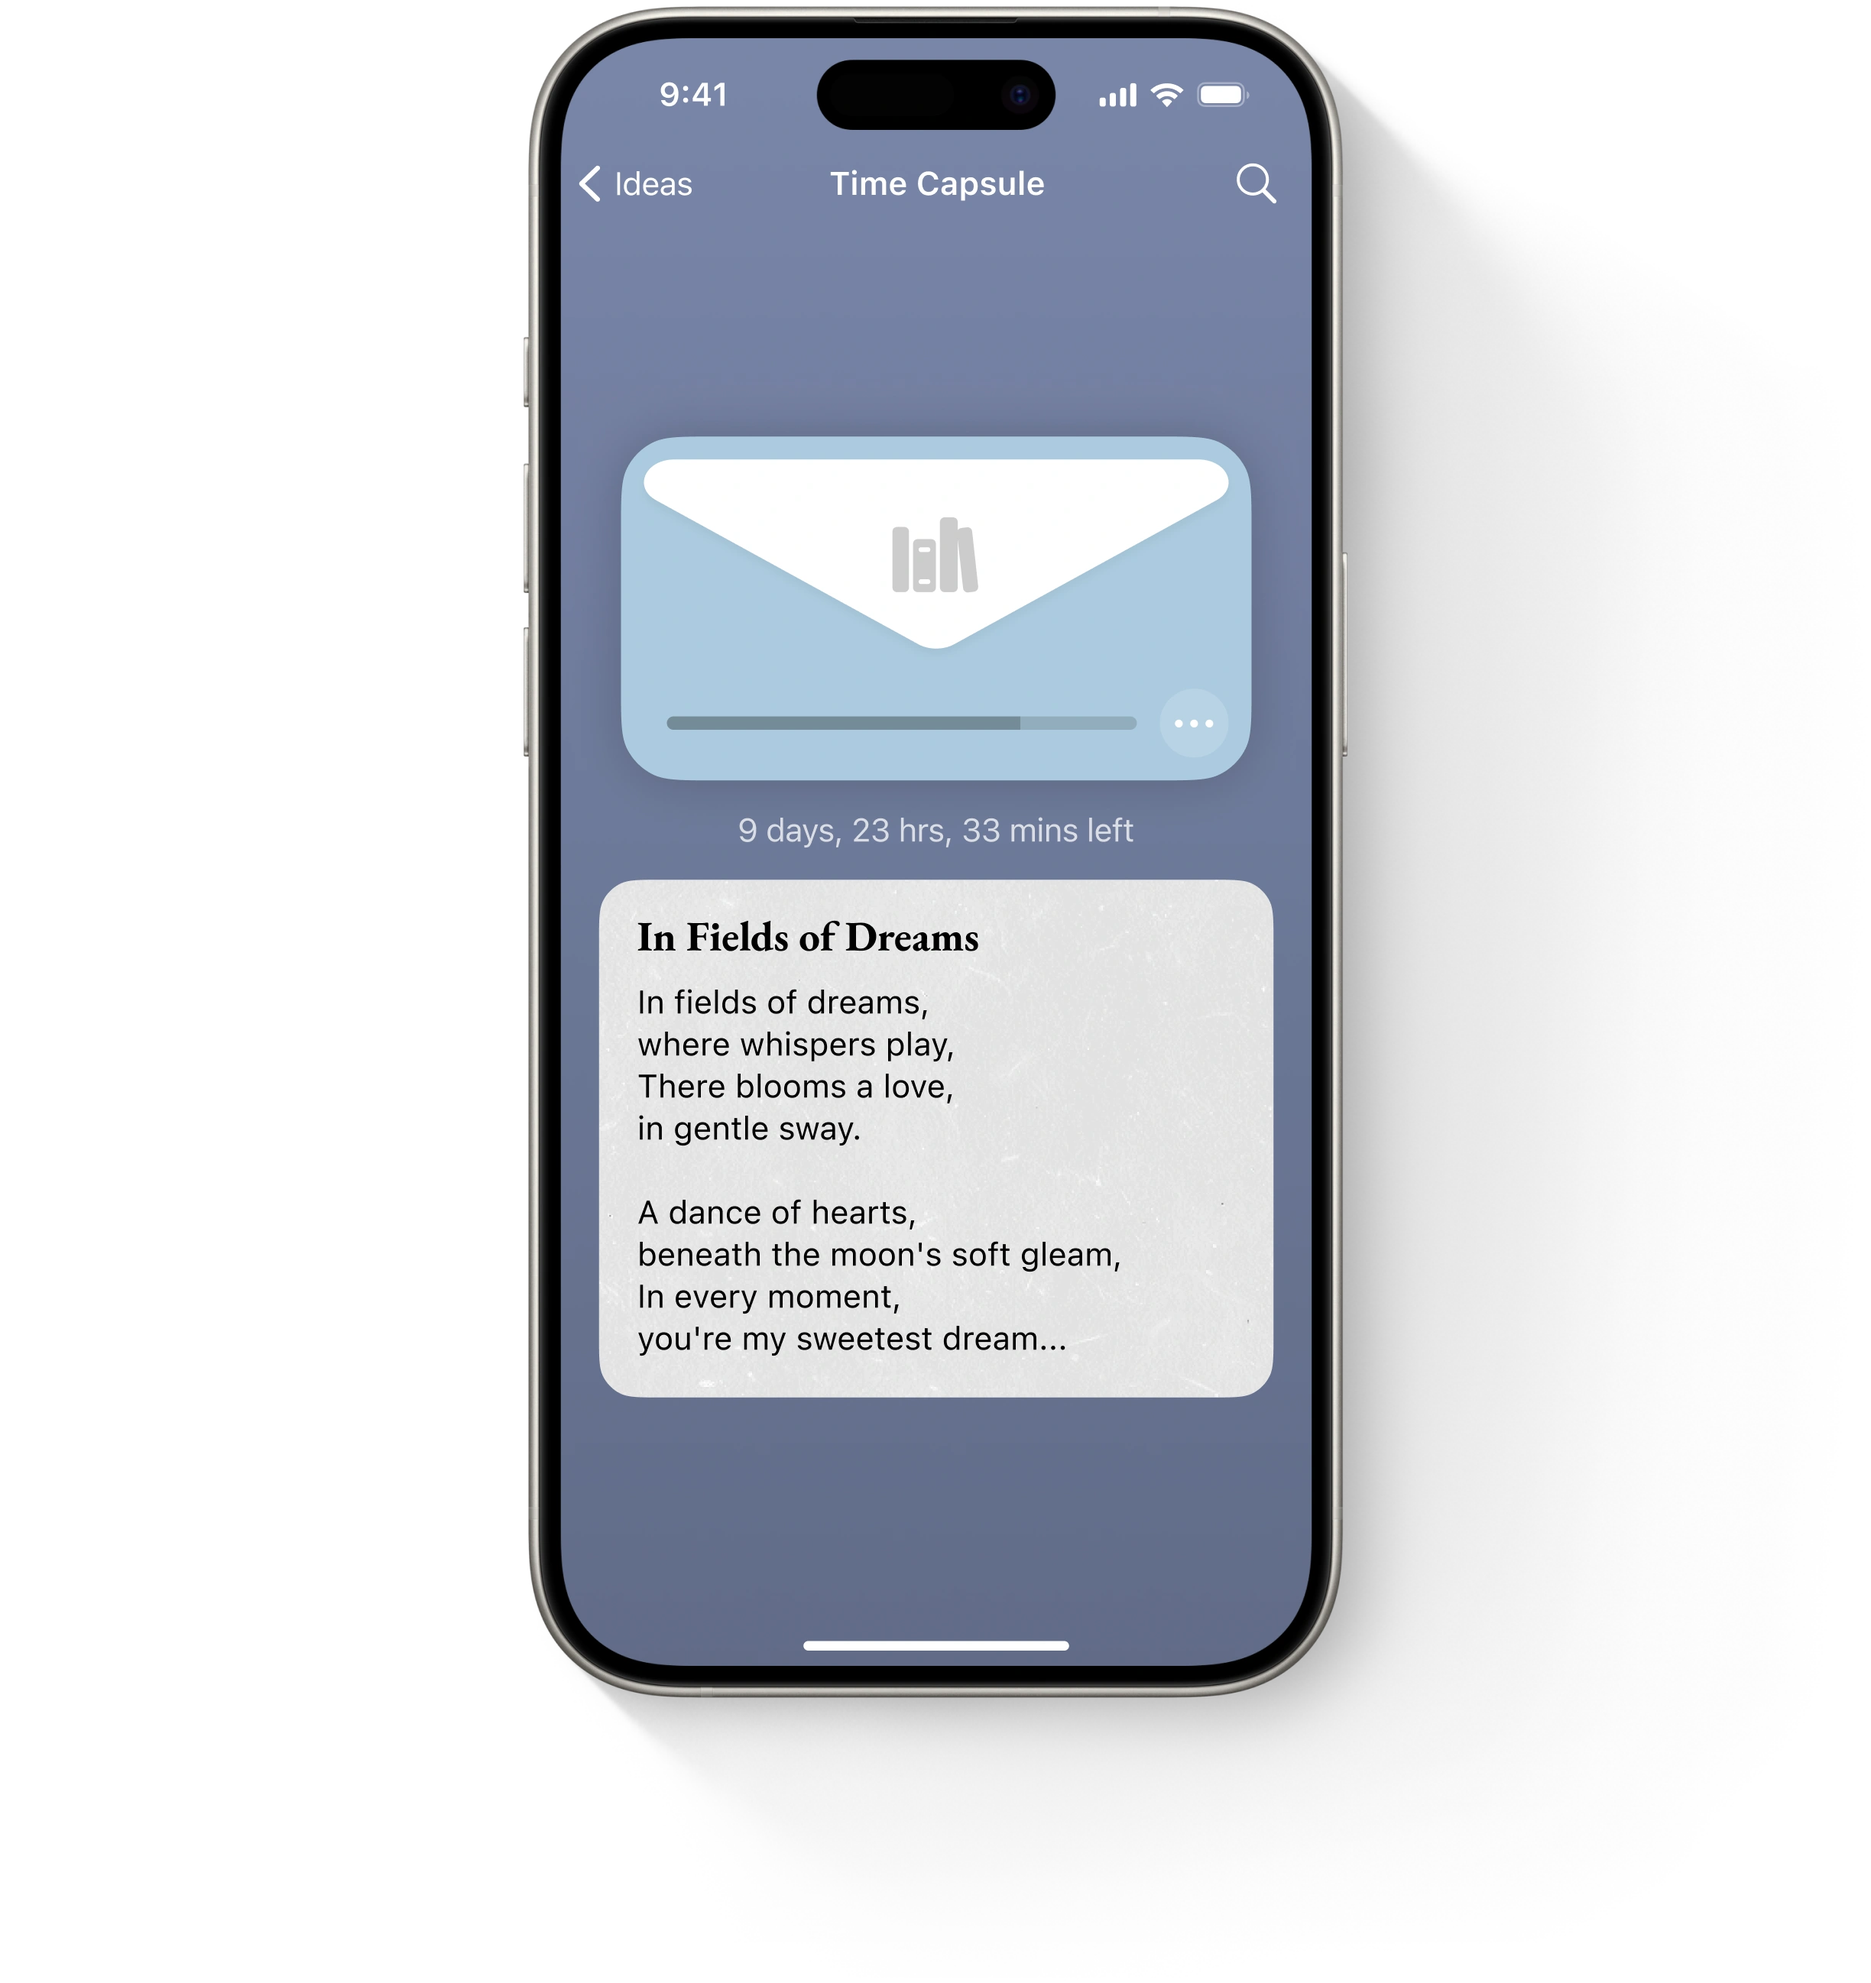
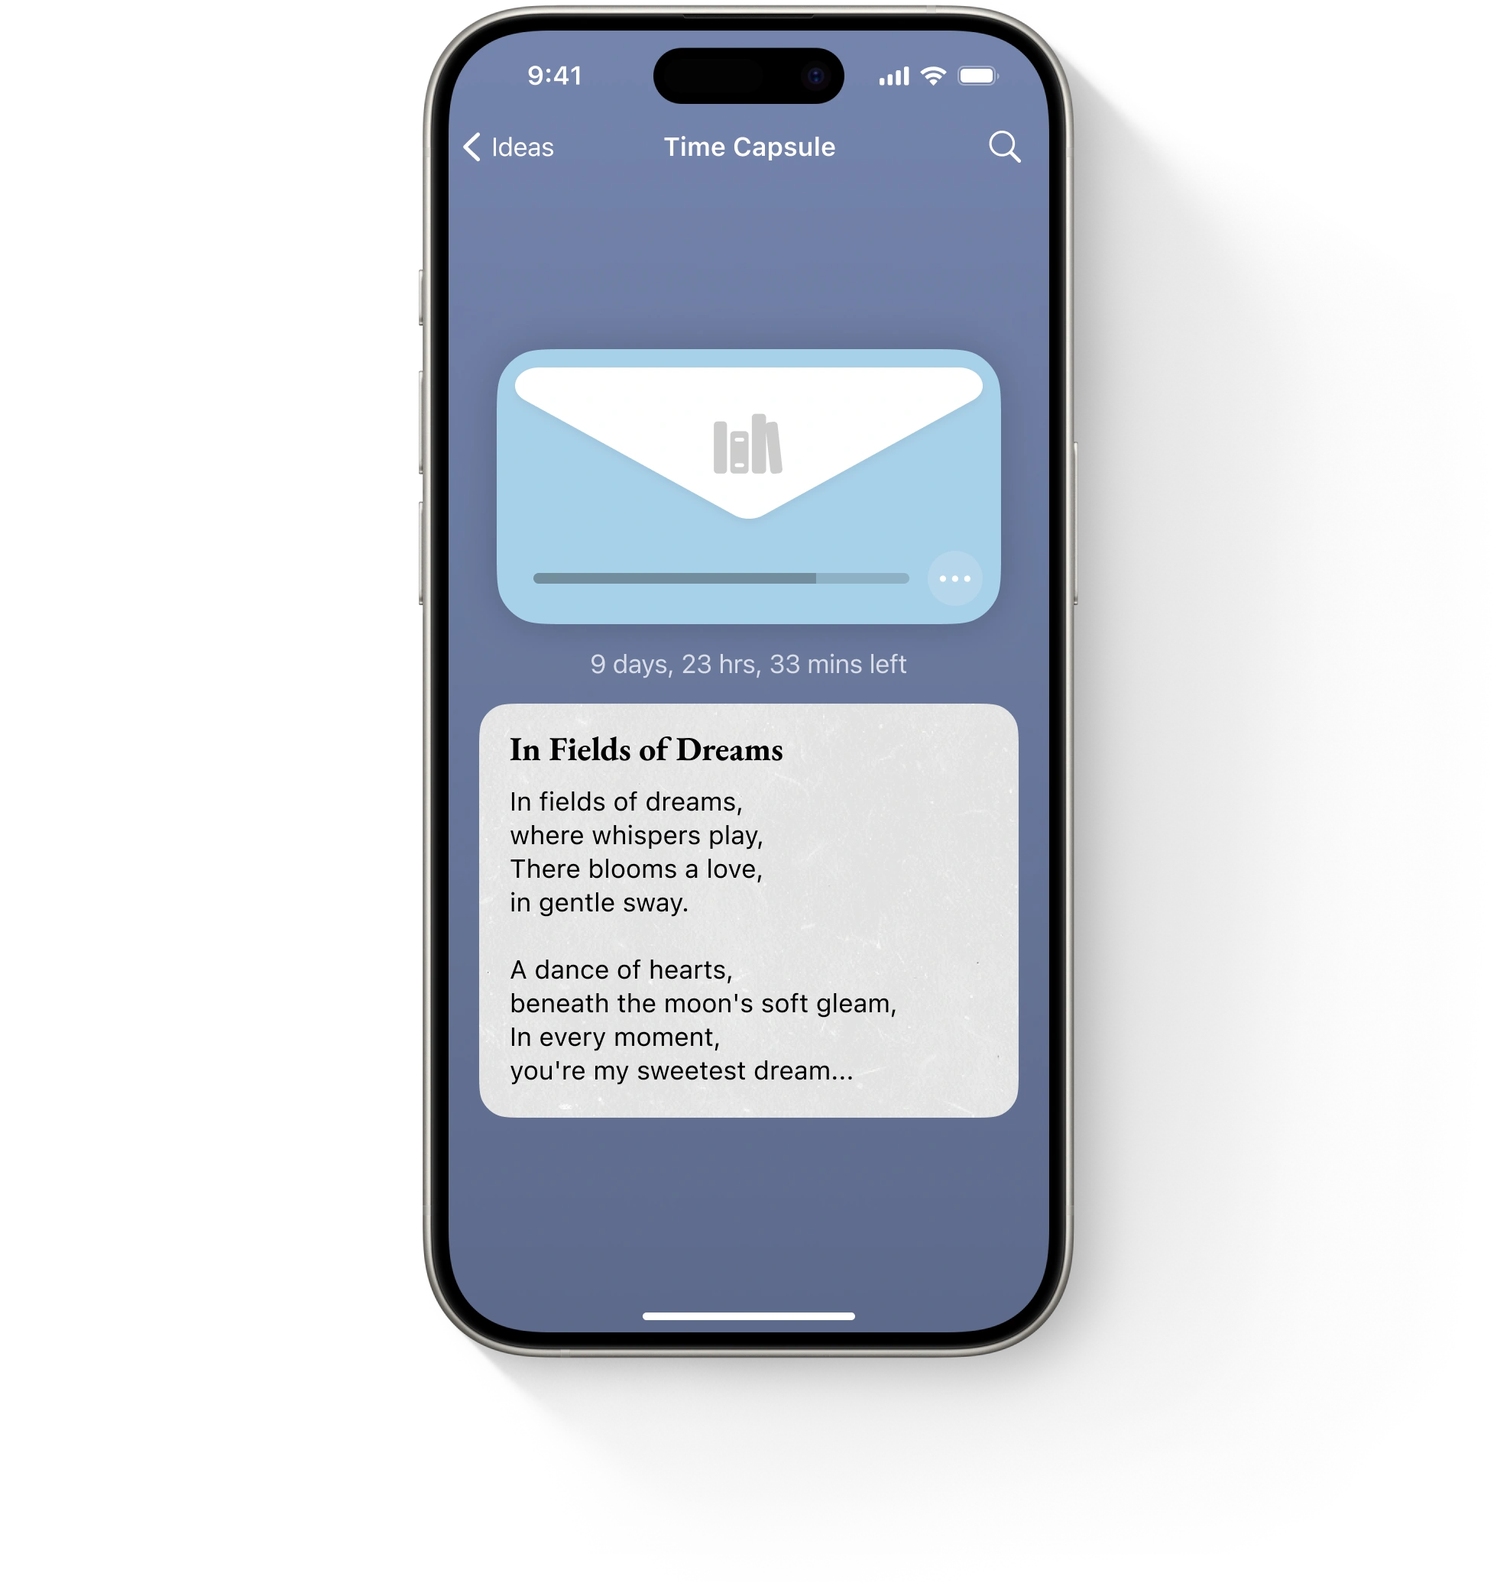
mobile

Changed region(s): [[0.3425, 0.5241, 0.4982, 0.5549], [0.4359, 0.6474, 0.4671, 0.6782]]

diff --git a/cases-style.css b/cases-style.css
@@ -49,7 +49,7 @@ nav {
     padding: 4px;
     gap: 4px;
     border-radius: 16px;
-    background-color: rgba(247, 247, 247, 0.75);
+    background-color: rgba(255, 255, 255, 0.75);
     backdrop-filter: saturate(180%) blur(20px);
     -webkit-backdrop-filter: saturate(180%) blur(20px);
     width: fit-content;
@@ -148,7 +148,7 @@ wordmark {
 
 .lead {
     gap: 15px;
-    padding-top: 0px;
+    padding-block: 0px;
 }
   
 .lead h1, .emphasis h1 {
@@ -333,13 +333,144 @@ holder {
 
 /* KEY IMAGES*/
 
-.iPhones-3 {
-    max-height: 1100px;
+.hold-five {
+    display: grid;
+    grid-template-columns: repeat(auto-fit, minmax(100px, 1fr));
+    column-gap: 20px;
+    width: 1600px;
+    animation: myAnimation 1s ease-in-out;
+    align-items:flex-start;
+    padding-top: 10px;
 }
 
-.hold-iPhones-3 {
-    max-height: 1010px;
+.hold-five .iPhone {
+    height: 670px;
 }
+
+.hold-five holder {
+    max-height: 570px;
+}
+
+.odd {
+    margin-top: 100px;
+    animation: straighten linear forwards;
+    animation-timeline: view();
+    animation-range: contain 0% cover 80%;
+}
+
+@media only screen and (max-width: 1130px) {
+    .hold-five {
+        width: 1200px;
+    }
+
+    .hold-five .iPhone {
+        height: 550px;
+    }
+    
+    .hold-five holder {
+        max-height: 450px;
+    }
+
+    .odd {
+        margin-top: 80px;
+    }
+}
+
+@media only screen and (max-width: 700px) {
+    .hold-five {
+        width: 900px;
+    }
+
+    .hold-five .iPhone {
+        height: 400px;
+    }
+    
+    .hold-five holder {
+        max-height: 350px;
+    }
+
+    .odd {
+        margin-top: 50px;
+    }
+}
+
+@keyframes straighten {
+    0% {
+        margin-top: 100px;
+    }
+    100% {
+        margin-top: 0px;
+    }
+}
+
+.move-left {
+    animation: moveLeft 1s ease-in-out;
+}
+
+.move-left-2 {
+    animation: moveLeft2 1s ease-in-out;
+}
+
+.move-right {
+    animation: moveRight 1s ease-in-out;
+}
+
+.move-right-2 {
+    animation: moveRight2 1s ease-in-out;
+}
+
+@keyframes moveLeft {
+    0% {
+      transform: translateX(40%);
+    }
+    100% {
+      transform: translateX(0%);
+    }
+}
+
+@keyframes moveLeft2 {
+    0% {
+      transform: translateX(80%);
+    }
+    100% {
+      transform: translateX(0%);
+    }
+}
+
+@keyframes moveRight {
+    0% {
+      transform: translateX(-40%);
+    }
+    100% {
+      transform: translateX(0%);
+    }
+}
+
+@keyframes moveRight2 {
+    0% {
+      transform: translateX(-80%);
+    }
+    100% {
+      transform: translateX(0%);
+    }
+}
+
+
+@keyframes myAnimation {
+    0% {
+      transform: scale(0.9) translateY(20%);
+    }
+    100% {
+      transform: scale(1) translateY(0%);
+    }
+}
+
+
+
+
+
+
+
 
 @media only screen and (max-width: 1370px) {
     .iPhones-3 {
@@ -460,7 +591,7 @@ paint {
 }
 
 .purple {
-    background: #7F8DB2;
+    background: #7A8BB6;
     fill: #A7D0E8;
 }
 
@@ -492,7 +623,7 @@ paint {
 
 @media only screen and (max-width: 700px) {
     color-options {
-        height: 600px;
+        height: 800px;
         width: 100vw;
         border-radius: 0px;
     }
@@ -927,28 +1058,6 @@ topic p {
 
     .hold-four holder {
         max-height: 670px;
-    }
-}
-
-
-
-/* SIX SIX SIX SIX SIX SIX */
-
-.hold-six {
-    max-height: 1850px;
-}
-
-.six {
-    max-height: 1923px;
-}
-
-@media only screen and (max-width: 1130px) {
-    .hold-six {
-        max-height: 1450px;
-    }
-    
-    .six {
-        max-height: 1485px;
     }
 }
 

diff --git a/shelf.html b/shelf.html
@@ -39,10 +39,24 @@
         <segment>
             <wordmark class="lead">
                 <h1>Shelf</h1>
-                <p>A new frontier of<br class="only-med">self-expression.</p>
+                <p>A new frontier of self-expression.</p>
             </wordmark>
-            <holder class="hold-iPhones-3">
-                <img class="iPhones-3" src="Im/s-key.webp">
+            <holder class="hold-five">
+                <holder class="move-right-2">
+                    <img class="iPhone" src="Im/s-key-1.webp">
+                </holder>
+                <holder class="odd move-right">
+                    <img class="iPhone" src="Im/s-key-2.webp">
+                </holder>
+                <holder>
+                    <img class="iPhone" src="Im/s-key-3.webp">
+                </holder>
+                <holder class="odd move-left">
+                    <img class="iPhone" src="Im/s-key-4.webp">
+                </holder>
+                <holder class="move-left-2">
+                    <img class="iPhone" src="Im/s-key-5.webp">
+                </holder>
             </holder>
             <wordmark class="emphasis">
                 <h1>Today,</h1>
@@ -474,12 +488,12 @@
             </wordmark>
             <vision style="background-image: url(Im/s-vision-1.webp);"></vision>
             <wordmark class="hide-small">
-                <h2>In Vision Pro</h2>
+                <h2>Vision Pro</h2>
                 <h1>Up to four windows open.</h1>
             </wordmark>
             <vision style="background-image: url(Im/s-vision-2.webp);" class="hide-small"></vision>
             <wordmark>
-                <h2>In Vision Pro</h2>
+                <h2>Vision Pro</h2>
                 <h1>Larger than life picture.</h1>
             </wordmark>
             <vision style="background-image: url(Im/s-vision-3.webp);"></vision>

diff --git a/style.css b/style.css
@@ -817,6 +817,10 @@ indie group h2 {
     font-size: 28px;
 }
 
+.shelf {
+    background-image: url(Im/Shelf-Cover.webp);
+}
+
 @media only screen and (max-width: 1370px) {
     .cover {
         height: 700px;
@@ -856,6 +860,10 @@ indie group h2 {
     .boards chin {
         padding: 20px 20px 40px;
         text-align: center;
+    }
+
+    .shelf {
+        background-image: url(Im/Shelf-Cover-small.webp);
     }
 }
 
@@ -1091,7 +1099,6 @@ play svg {
     align-items: center;
     height: auto;
     text-align: center;
-    padding-inline: 30px;
 }
 
 .essay h1 {
@@ -1276,6 +1283,7 @@ item-grid {
 .essay item-grid p {
     font-size: 19px;
     opacity: 0.5;
+    text-align: left;
 }
 
 @media only screen and (max-width: 1130px) {
@@ -1410,14 +1418,6 @@ item-grid {
     
     .essay item-grid h1 {
         font-size: 19px;
-    }
-
-    .essay item-grid p {
-        text-align: left;
-    }
-
-    .essay group {
-        padding-inline: 0px;
     }
 
     .essay h2 {

diff --git a/index.html b/index.html
@@ -1,3 +1,4 @@
+<!DOCTYPE html>
 <html lang="en">
 <head>
     <meta charset="UTF-8">
@@ -35,7 +36,7 @@
         </a>
     </nav>
 
-    <a class="cover center" href="shelf.html" style="background-image: url(Im/Shelf-Cover.webp);">
+    <a class="cover center shelf" href="shelf.html">
         <h1>Shelf</h1>
         <p>A new frontier of self-expression.</p>
         <border class="center">Learn more</border>
